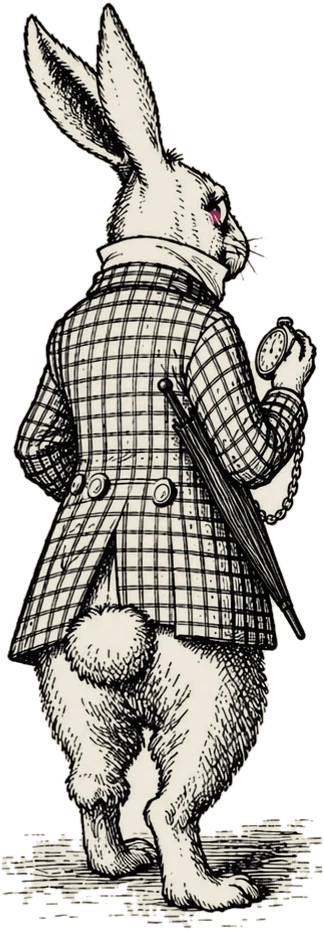
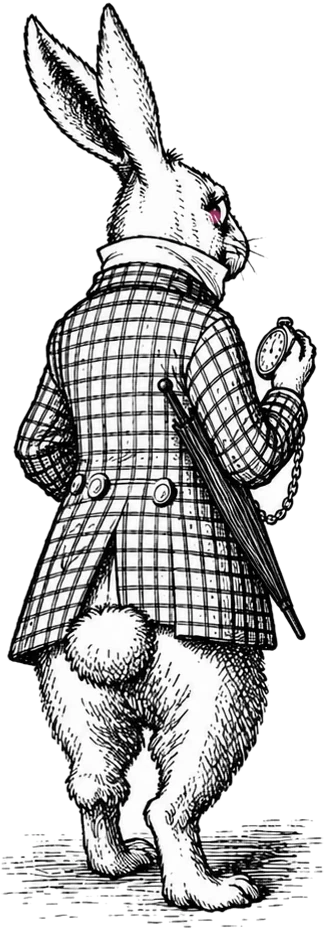
The White Rabbit is white in every scene (paper tint taken off his drawings); a clearer four-frame walk prompt
Claude-Session: https://claude.ai/code/session_01XCrTmcLSNBEvemRhk5i2MQ

Changed region(s): [[0.0, 0.0, 0.9568, 0.9978], [0.6481, 0.4989, 0.679, 0.5301]]

diff --git a/src/main.js b/src/main.js
@@ -79,7 +79,7 @@ async function main() {
     fetch('art/ai/shaft_strip.json').then((r) => r.json()),
     fetch('art/ai/hall/hall.json').then((r) => r.json()),
     fetch('art/ai/poses/poses.json').then((r) => r.json()),
-    loadTexture('art/rabbit_w01-1.png'),
+    loadTexture('art/rabbit_w01-1_white.png'), // white, not paper (tools/white_rabbit.py)
     ...AI_ART.map((n) => loadTexture(`art/ai/${n}.webp`)),
   ]);
   // Whole-figure poses (tools/compose_poses.py), sized and lined up to match the standing Alice.

diff --git a/tools/ch1_art.py b/tools/ch1_art.py
@@ -19,6 +19,8 @@ import tempfile
 import numpy as np
 from PIL import Image
 
+from white_rabbit import whiten
+
 OUT = "public/art/ai/ch1"
 PAPER = np.array([0xEF, 0xE9, 0xDA], np.float32)
 MAX = 1200
@@ -57,9 +59,11 @@ def pink_eye(img, eye):
 
 def main():
     os.makedirs(OUT, exist_ok=True)
-    for n in ("leaf_heap", "alice_land", "rabbit_run_away"):
+    for n in ("leaf_heap", "alice_land", "rabbit_run_away"):  # (the Rabbit whitened below)
         src = next(f"source/ai/{n}.{e}" for e in ("png", "webp") if os.path.exists(f"source/ai/{n}.{e}"))
         img = shrink(whitecut(src).convert("RGBA"))
+        if n.startswith("rabbit"):
+            img = whiten(img)
         img.save(f"{OUT}/{n}.webp", quality=90, method=6)
         print(f"{OUT}/{n}.webp: {img.size[0]}x{img.size[1]}")
     # The White Rabbit sheet (three figures: watch, trotting, from behind), split and cut out.
@@ -67,7 +71,7 @@ def main():
         with tempfile.TemporaryDirectory() as d:
             Image.open("source/ai/rabbit_sheet.webp").convert("RGB").crop((x0, 175, x1, 1135)).save(f"{d}/c.png")
             img = shrink(whitecut(f"{d}/c.png").convert("RGBA"))
-        img = pink_eye(img, EYES[n])
+        img = whiten(pink_eye(img, EYES[n]))  # the White Rabbit is white, not paper
         img.save(f"{OUT}/{n}.webp", quality=90, method=6)
         print(f"{OUT}/{n}.webp: {img.size[0]}x{img.size[1]}")
     # Thought vignettes (the same oval card treatment as Chapter II's).

diff --git a/tools/white_rabbit.py b/tools/white_rabbit.py
@@ -1,0 +1,25 @@
+"""The White Rabbit is white (COLOR.md rule 8, owner 2026-10-13): his drawings are not tinted to
+the paper colour like everything else, so he stands out from the page and the other figures.
+
+whiten(img) undoes the paper tint on an RGBA image: the paper colour becomes pure white, ink
+stays ink, and his pink eyes stay pink. Used by tools/ch1_art.py and tools/ch2_art.py on every
+Rabbit drawing; run as a script it makes the white copy of the Tenniel Rabbit cut-out.
+
+Usage: python3 tools/white_rabbit.py   (public/art/rabbit_w01-1.png -> public/art/rabbit_w01-1_white.png)
+Requires Pillow and NumPy.
+"""
+import numpy as np
+from PIL import Image
+
+PAPER = np.array([0xEF, 0xE9, 0xDA], np.float32)
+
+
+def whiten(img):
+    a = np.asarray(img.convert("RGBA"), np.float32).copy()
+    a[..., :3] = np.clip(a[..., :3] * (255.0 / PAPER), 0, 255)
+    return Image.fromarray(a.astype(np.uint8), "RGBA")
+
+
+if __name__ == "__main__":
+    whiten(Image.open("public/art/rabbit_w01-1.png")).save("public/art/rabbit_w01-1_white.png", optimize=True)
+    print("public/art/rabbit_w01-1_white.png")

diff --git a/tools/ch2_art.py b/tools/ch2_art.py
@@ -17,6 +17,8 @@ import tempfile
 import numpy as np
 from PIL import Image, ImageDraw, ImageFilter
 
+from white_rabbit import whiten
+
 SRC = "source/ai"
 OUT = "public/art/ai/ch2"
 VIG = "public/art/ai/vignettes"
@@ -121,6 +123,8 @@ def main():
         # whiskers and the paw.
         args = ["--seal", "4", "--clear", "421,599"] if n == "mouse_bristle" else []
         img = shrink(whitecut(src(n), *args).convert("RGBA"))
+        if n.startswith("rabbit"):
+            img = whiten(img)  # the White Rabbit is white, not paper (tools/white_rabbit.py)
         img.save(f"{OUT}/{n}.webp", quality=90, method=6)
         print(f"{OUT}/{n}.webp: {img.size[0]}x{img.size[1]}")
     for n in OPAQUE:

diff --git a/docs/ASSETS_MASTER.md b/docs/ASSETS_MASTER.md
@@ -35,7 +35,7 @@ Use the **same ChatGPT conversation** as the turnaround and the earlier pieces s
 
 ### Alice (whole figures, same scale as the turnaround, three-quarter view facing left unless stated)
 - [x] **1.** `alice_walk_a.png`, `alice_walk_b.png`: "Same Alice, full figure on white: WALKING at an easy pace. Frame A: left foot forward, heel down. Frame B: right foot forward, heel down. Arms swing gently opposite to the legs. Two separate images, identical in scale and position." *(note 2)* *(received as a screenshot: send the original)*
-- [ ] **43.** `alice_walk_cycle.png` (landscape; attach the model sheet and `alice_walk_a`): "Same Alice, ONE image with FOUR full figures side by side on white, all identical in scale, same three-quarter view facing left, same height on the page: a walking cycle at an easy pace. 1: left foot forward, heel down, right arm forward. 2: legs passing, left foot flat under her, right foot lifting behind. 3: right foot forward, heel down, left arm forward. 4: legs passing, right foot flat, left foot lifting. Same dress, hair and shoes in every figure; only the legs and arms change." *(replaces walk_a and walk_b: both frames drawn together so they match; owner, 2026-10-12)*
+- [ ] **43.** `alice_walk_cycle.png` (landscape; attach the model sheet and `alice_walk_pair`): "Same Alice as the attached walking drawing, ONE image with FOUR full figures in a row on white, all identical in size, the same three-quarter view facing left, heads at the same height and feet on the same ground line: a walking cycle at an easy pace, like an animator's walk chart. Her FAR leg is the one further from us, her NEAR leg the one closer to us. Figure 1: NEAR leg stepped forward, heel touching the ground, FAR leg behind on its toes; FAR arm swung forward, NEAR arm back. Figure 2: legs passing each other, NEAR foot flat under her body, FAR foot lifted just off the ground beside it; arms at her sides. Figure 3: FAR leg stepped forward, heel touching the ground, NEAR leg behind on its toes; NEAR arm swung forward, FAR arm back. Figure 4: legs passing, FAR foot flat under her body, NEAR foot lifted just off the ground; arms at her sides. Figures 1 and 3 must be clear mirror opposites in the legs. Same dress, apron, hair and shoes in all four; only the legs and arms change." *(replaces the walk pair, whose two figures have the same leg forward; owner, 2026-10-13)*
 - [x] **2.** `alice_jump.png`: "Same Alice, full figure on white: JUMPING forward and down into a hole, knees bent, arms forward, hair and skirt lifting." *(note 6)*
 - [x] **3.** `alice_fall.png`: "…FALLING slowly down a well: arms raised and spread, skirt and hair floating upward, feet together, calm and curious."
 - [x] **4.** `alice_kneel.png`: "…KNEELING on the floor, bent forward, cheek close to the ground, peering through a tiny door at floor level. Side view facing right."

diff --git a/docs/ART_PROMPTS.md b/docs/ART_PROMPTS.md
@@ -137,7 +137,7 @@ Use the **same ChatGPT conversation** as the turnaround and the earlier pieces s
 
 ### Alice (whole figures, same scale as the turnaround, three-quarter view facing left unless stated)
 1. `alice_walk_a.png`, `alice_walk_b.png`: "Same Alice, full figure on white: WALKING at an easy pace. Frame A: left foot forward, heel down. Frame B: right foot forward, heel down. Arms swing gently opposite to the legs. Two separate images, identical in scale and position." *(note 2)*
-43. `alice_walk_cycle.png` (landscape; attach the model sheet and `alice_walk_a`): "Same Alice, ONE image with FOUR full figures side by side on white, all identical in scale, same three-quarter view facing left, same height on the page: a walking cycle at an easy pace. 1: left foot forward, heel down, right arm forward. 2: legs passing, left foot flat under her, right foot lifting behind. 3: right foot forward, heel down, left arm forward. 4: legs passing, right foot flat, left foot lifting. Same dress, hair and shoes in every figure; only the legs and arms change." *(replaces walk_a and walk_b: both frames drawn together so they match; owner, 2026-10-12)*
+43. `alice_walk_cycle.png` (landscape; attach the model sheet and `alice_walk_pair`): "Same Alice as the attached walking drawing, ONE image with FOUR full figures in a row on white, all identical in size, the same three-quarter view facing left, heads at the same height and feet on the same ground line: a walking cycle at an easy pace, like an animator's walk chart. Her FAR leg is the one further from us, her NEAR leg the one closer to us. Figure 1: NEAR leg stepped forward, heel touching the ground, FAR leg behind on its toes; FAR arm swung forward, NEAR arm back. Figure 2: legs passing each other, NEAR foot flat under her body, FAR foot lifted just off the ground beside it; arms at her sides. Figure 3: FAR leg stepped forward, heel touching the ground, NEAR leg behind on its toes; NEAR arm swung forward, FAR arm back. Figure 4: legs passing, FAR foot flat under her body, NEAR foot lifted just off the ground; arms at her sides. Figures 1 and 3 must be clear mirror opposites in the legs. Same dress, apron, hair and shoes in all four; only the legs and arms change." *(replaces the walk pair, whose two figures have the same leg forward; owner, 2026-10-13)*
 2. `alice_jump.png`: "Same Alice, full figure on white: JUMPING forward and down into a hole, knees bent, arms forward, hair and skirt lifting." *(note 6)*
 3. `alice_fall.png`: "…FALLING slowly down a well: arms raised and spread, skirt and hair floating upward, feet together, calm and curious."
 4. `alice_kneel.png`: "…KNEELING on the floor, bent forward, cheek close to the ground, peering through a tiny door at floor level. Side view facing right."

diff --git a/PROVENANCE.md b/PROVENANCE.md
@@ -133,3 +133,4 @@ Every shipped asset is listed here with its source. AI-generated or AI-modified 
 | ai_vignette_globe | `public/art/ai/vignettes/globe.webp` | AI | Generated in the same conversation (docs/ASSETS_MASTER.md, Chapter I prompt 38); original in `source/ai/vignette_globe.webp` | OpenAI ChatGPT (GPT-6 chat); OpenAI image generation, exact image model not disclosed; received 2026-10-12 | Whole image generated. The caption printed below the oval cropped off; paper-tinted, fitted to the thought oval (`tools/ch1_art.py`). Used in Chapter I, the fall. | 2026-10-12 | Owner (generated), Claude Code (processed) |
 | ai_alice3_call_v2 | `public/art/ai/poses/call.webp` | AI | Second version of Chapter III prompt 7; original in `source/ai/alice3_call_v2.webp` | OpenAI ChatGPT (GPT-6 chat); OpenAI image generation, exact image model not disclosed; received 2026-10-12 | Whole image generated. Cut out, paper-tinted and scaled to the standing Alice (`tools/compose_poses.py`). Replaces the first version (kept as a spare). | 2026-10-12 | Owner (generated), Claude Code (processed) |
 | ai_alice_walk_pair | `public/art/ai/poses/walk_a.webp`, `walk_b.webp` | AI | Alice walking, two matching steps in one drawing (owner, 2026-10-13); original in `source/ai/alice_walk_pair.webp` | OpenAI ChatGPT (GPT-6 chat); OpenAI image generation, exact image model not disclosed; received 2026-10-13 | Whole image generated. Split in two, cut out, paper-tinted and scaled to the standing Alice (`tools/compose_poses.py`). Replaces the earlier walk_a and the walk_b phone screenshot (both kept in source/ai). | 2026-10-13 | Owner (generated), Claude Code (processed) |
+| rabbit_white | `public/art/rabbit_w01-1_white.png`, `public/art/ai/ch1/rabbit_*.webp`, `public/art/ai/ch2/rabbit2_*.webp` | (see each Rabbit row) | The same Rabbit drawings | — | Paper tint taken off so he is pure white, pink eyes kept (owner, 2026-10-13; `tools/white_rabbit.py`). | 2026-10-13 | Claude Code |

diff --git a/docs/COLOR.md b/docs/COLOR.md
@@ -9,7 +9,7 @@ The world is black-and-white ink, like Tenniel's engravings. **A thing has color
 5. **Labels that name contents count**, but only if the contents are there. The ORANGE MARMALADE jar is empty ("to her great disappointment it was empty"), so the jar and its label stay ink (owner decision, 2026-10-10).
 6. **Colors in poems and songs** at least color that word in the text strip (e.g. *green* in "Beautiful Soup, so rich and green"). They can be staged where it suits the scene.
 7. **Not colors:** "dark", "bright", "brightened", "goldfish" (the word only; no color is stated), "blacking" (a polish, not a stated color).
-8. **White is still white.** White things (the White Rabbit, white kid gloves, white roses) are paper-white. Being named white means they stay unshaded.
+8. **White is still white.** White things (the White Rabbit, white kid gloves, white roses) are paper-white. The White Rabbit is pure white, brighter than the paper, in every scene (owner, 2026-10-13; `tools/white_rabbit.py`). Being named white means they stay unshaded.
 
 ## How spot colour is drawn
 Rich and bright, with a slight glow (owner, Notes 1.0 #14): the colour lies over the ink instead of being multiplied into it, so lines still show. The key and the poker have a soft halo. Ink and paper are unchanged.
